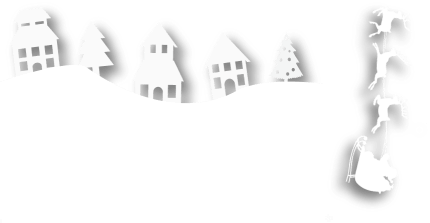
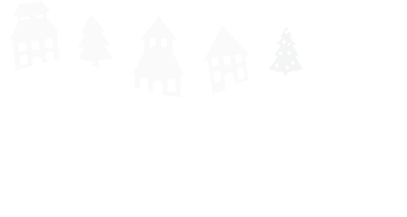
Update assets

diff --git a/Christmas_2018_Watch_Face Extension/PaperTown/ChristmasPaperTown.swift b/Christmas_2018_Watch_Face Extension/PaperTown/ChristmasPaperTown.swift
@@ -23,7 +23,9 @@ public final class ChristmasPaperTown: SKScene {
         return formatter
     }()
     
-    private let mainColor = UIColor(red:  0.745, green: 0.117, blue: 0.176, alpha: 1.00)
+    private let mainColor = UIColor(red: 0.745, green: 0.117, blue: 0.176, alpha: 1.00)
+    
+    private let fontName = "DancingScript-Bold"
     
     private let textureAtlas = SKTextureAtlas(named: "ChristmasPaperTown")
     
@@ -59,13 +61,12 @@ public final class ChristmasPaperTown: SKScene {
         
         backgroundNode.color = mainColor
         timeLabelNode.fontColor = mainColor
-        timeLabelNode.fontName = "DancingScript-Bold"
+        timeLabelNode.fontName = fontName
         dateLabelNode.fontColor = mainColor
-        dateLabelNode.fontName = "DancingScript-Bold"
-        
+        dateLabelNode.fontName = fontName
         
         snowEmitter.targetNode = backgroundNode
-        snowEmitter.position.y = (size.height / 2)
+        snowEmitter.position.y = (size.height / 1.75)
         addChild(snowEmitter)
     }
     
@@ -77,17 +78,7 @@ public final class ChristmasPaperTown: SKScene {
         let now = Date()
         let time = timeFormatter.string(from: now)
         timeLabelNode.text = time
-        //timeLabelNode.fontSize = fontSizeFor(text: time)
         dateLabelNode.text = dateFormatter.string(from: now)
     }
-    
-    /*private func fontSizeFor(text: String) -> CGFloat {
-        switch text.count {
-        case 0...5: return 28
-        case 6...7: return 24
-        case 8: return 19
-        default: return 18
-        }
-    }*/
     
 }

diff --git a/Watch_Face_Christmas_2018/ViewController.swift b/Watch_Face_Christmas_2018/ViewController.swift
@@ -15,6 +15,4 @@ class ViewController: UIViewController {
         // Do any additional setup after loading the view, typically from a nib.
     }
 
-
 }
-
